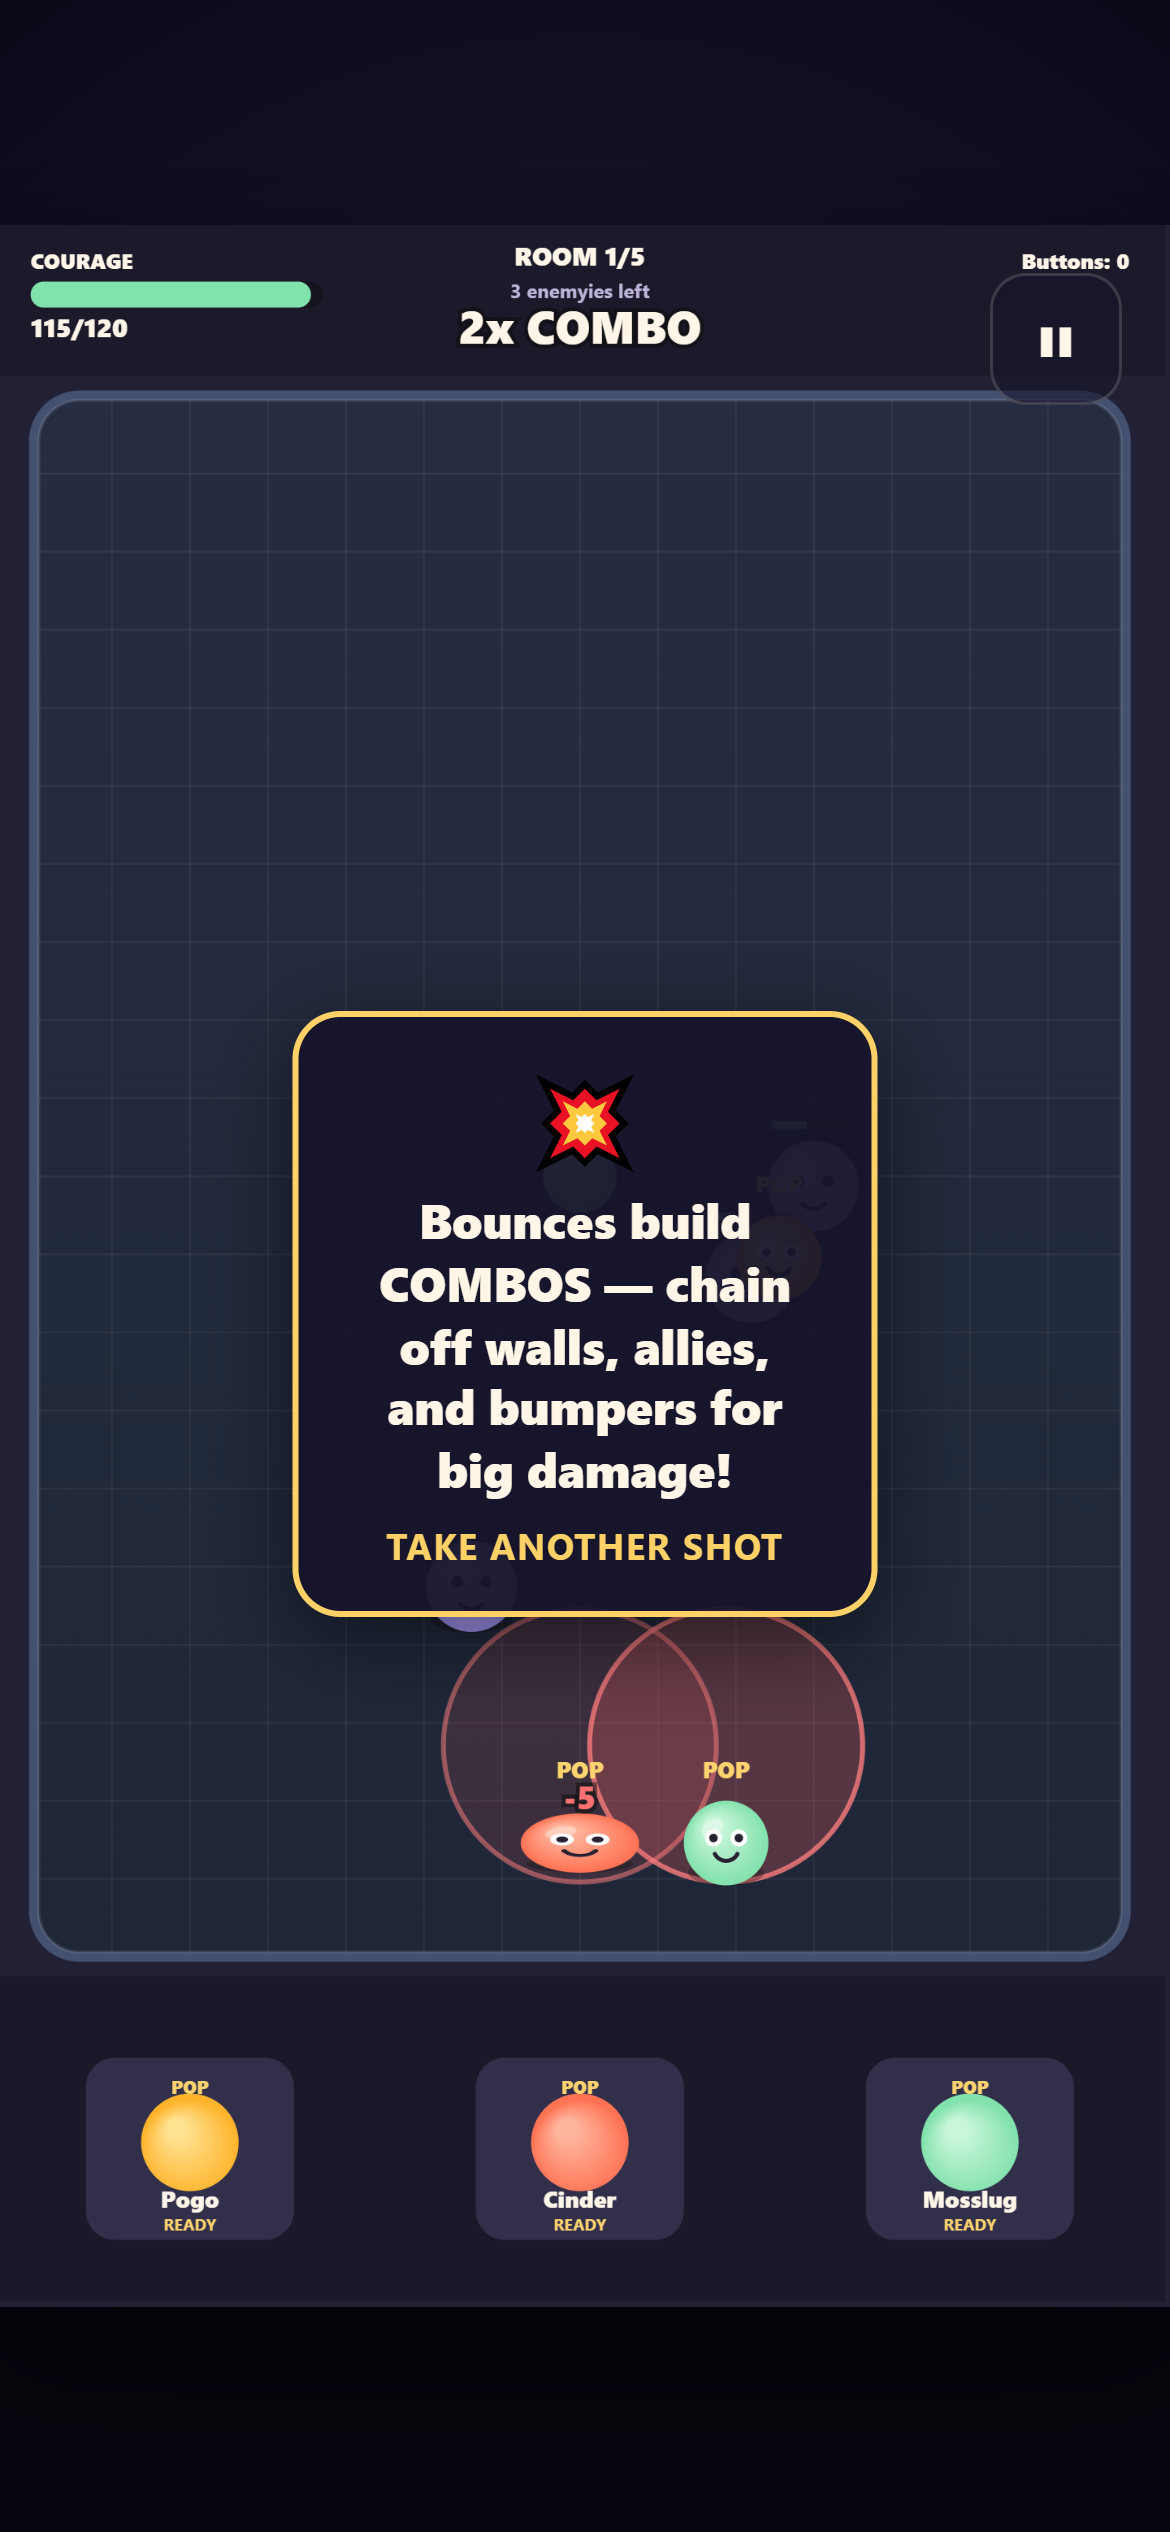
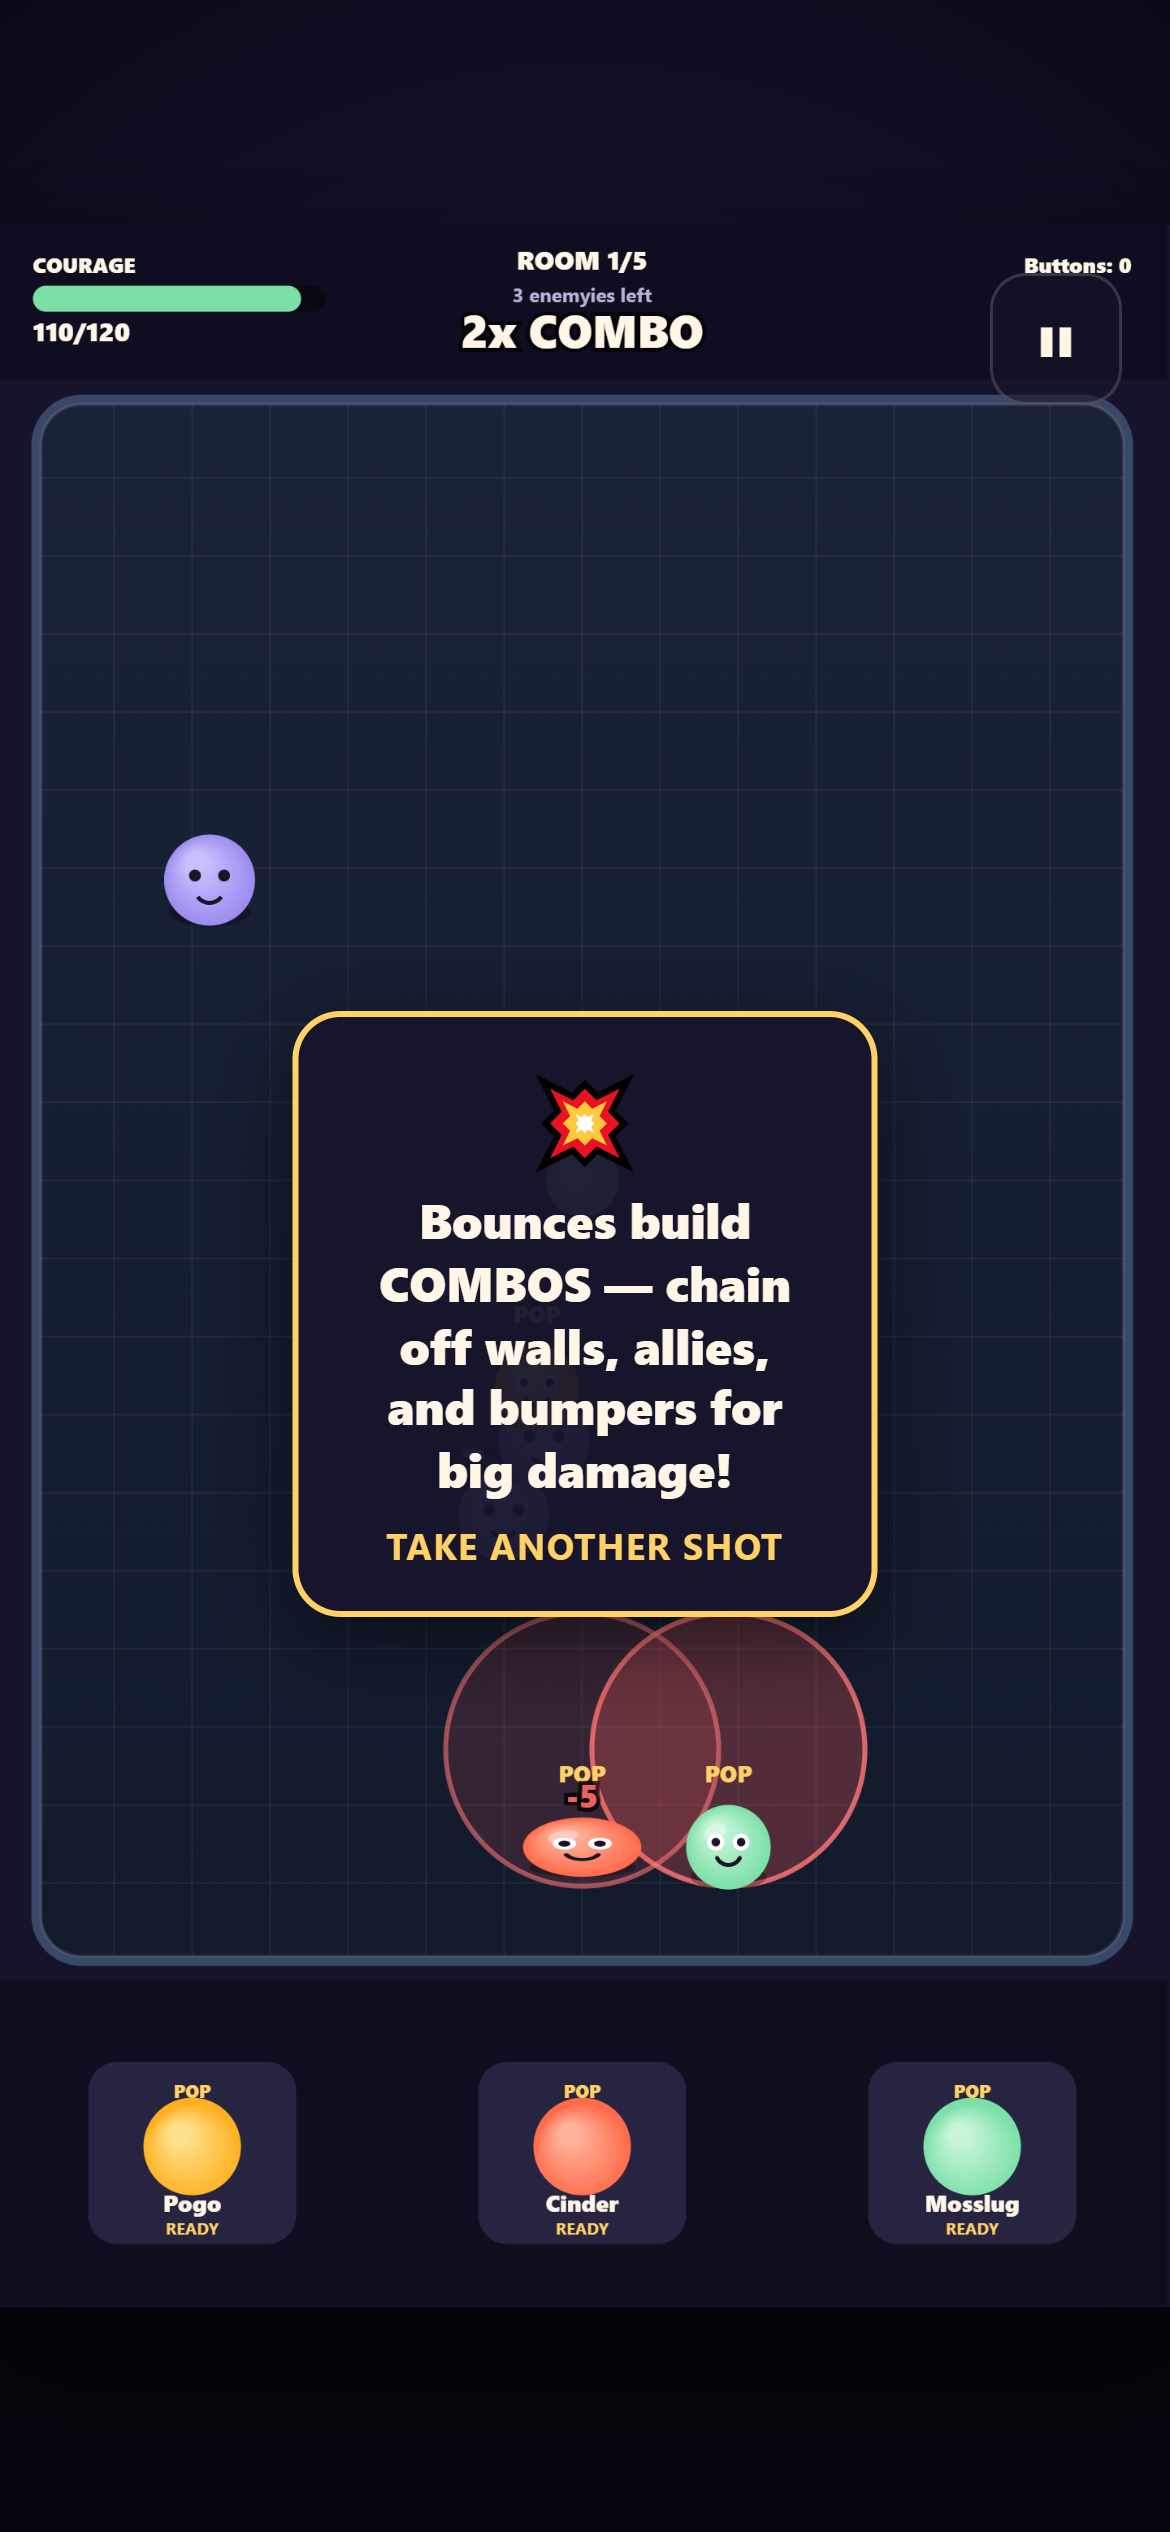
feat: World 4 (Clockwork Cloud) + World 5 (Velvet Void) + bosses The Snooze & The Hush Regent — completes all 5 worlds (§11)
World 4 — Clockwork Cloud: weather factory theme, purple palette, rooms 17-22.
Boss The Snooze: ticking<->ringing phase. Steals a turn (bonus damage) at
countdown; spawns clock-hand gears that must be struck to trigger ringing.
World 5 — Velvet Void: colorless theatre theme, grey palette, rooms 23+.
Boss The Hush Regent: hushing<->revealed phase. Drains Courage each turn;
becomes vulnerable periodically (blueprint: beaten by Buddy chains).
Both with destructible object mechanics (gear break, like bubble pop).

diff --git a/www/js/game.js b/www/js/game.js
@@ -372,12 +372,18 @@
     // ---- room generation (data-driven, seeded) ----
     buildRoom(idx) {
       // World selection across expeditions:
-      //  rooms 0-4  = Jellyyard (World 1)
-      //  rooms 5-10 = Ember Pantry (World 2)
-      //  rooms 11+  = Bubbleworks (World 3)
+      //  rooms 0-4   = Jellyyard (World 1)
+      //  rooms 5-10  = Ember Pantry (World 2)
+      //  rooms 11-16 = Bubbleworks (World 3)
+      //  rooms 17-22 = Clockwork Cloud (World 4)
+      //  rooms 23+   = Velvet Void (World 5)
       const inEmberPantry = idx >= 5 && idx < 11;
-      const inBubbleworks = idx >= 11;
-      const world = inBubbleworks ? PP_Content.WORLDS.bubbleworks
+      const inBubbleworks = idx >= 11 && idx < 17;
+      const inClockwork = idx >= 17 && idx < 23;
+      const inVelvetVoid = idx >= 23;
+      const world = inVelvetVoid ? PP_Content.WORLDS.velvet_void
+                  : inClockwork ? PP_Content.WORLDS.clockwork_cloud
+                  : inBubbleworks ? PP_Content.WORLDS.bubbleworks
                   : inEmberPantry ? PP_Content.WORLDS.ember_pantry
                   : PP_Content.WORLDS.jellyyard;
       this.currentWorldId = world.id;
@@ -393,8 +399,10 @@
       const isBossRoom = (!this.isDaily && !this.isWild && !this.isTower && !this.isPlayground && idx === this.totalRooms - 1);
       let uid = 0;
       if (isBossRoom && PP_Content.BOSSES) {
-        // Pick boss by world: Bubbleworks → Tanktopus, Ember Pantry → Chef Char, else Grumble Hoover.
-        const bossDef = (this.currentWorldId === 'bubbleworks' && PP_Content.BOSSES.tanktopus) ? PP_Content.BOSSES.tanktopus
+        // Pick boss by world.
+        const bossDef = (this.currentWorldId === 'velvet_void' && PP_Content.BOSSES.the_hush_regent) ? PP_Content.BOSSES.the_hush_regent
+          : (this.currentWorldId === 'clockwork_cloud' && PP_Content.BOSSES.the_snooze) ? PP_Content.BOSSES.the_snooze
+          : (this.currentWorldId === 'bubbleworks' && PP_Content.BOSSES.tanktopus) ? PP_Content.BOSSES.tanktopus
           : (this.currentWorldId === 'ember_pantry' && PP_Content.BOSSES.chef_char) ? PP_Content.BOSSES.chef_char
           : PP_Content.BOSSES.grumble_hoover;
         if (bossDef) {
@@ -527,6 +535,8 @@
       // Each boss has its own phase names; default to shielding/exposed.
       const startPhase = (def.id === 'chef_char') ? 'cooking'
                        : (def.id === 'tanktopus') ? 'guarded'
+                       : (def.id === 'the_snooze') ? 'ticking'
+                       : (def.id === 'the_hush_regent') ? 'hushing'
                        : 'shielding';
       const boss = {
         uid: 'boss', id: def.id, def, kind: 'enemy', isBoss: true,
@@ -958,6 +968,20 @@
           this.bumpCombo();
           return;
         }
+        // Clock gear (The Snooze, §11 W4): takes damage and breaks.
+        if (o.gear && !o.dead) {
+          o.gearHp -= (ap ? ap.def.power : 10);
+          PP_Audio.comboHit(ss.combo, 'object');
+          PP_Effects.burst(o.x, o.y, ev.nx, ev.ny, { count: 8, color: '#e0daf0', speed: 280, size: 4, life: 0.35 });
+          PP_Effects.shake(2);
+          if (o.gearHp <= 0) {
+            o.dead = true;
+            PP_Effects.ring(o.x, o.y, { color: '#b0a8d0', radius: o.r + 12, life: 0.4, width: 5 });
+            PP_Effects.floatText(o.x, o.y - 20, 'CLANG!', { color: '#b0a8d0', size: 16 });
+          }
+          this.bumpCombo();
+          return;
+        }
         if (o.bumper) {
           // bumper restitution handled in physics; add flair
           PP_Audio.comboHit(ss.combo, 'object');
@@ -975,7 +999,7 @@
       // Boss: takes bonus damage when EXPOSED, reduced when SHIELDING (blueprint §11).
       if (e.isBoss) {
         // Both bosses: take bonus damage when vulnerable (exposed / stunned).
-        const vulnerable = (e.bossPhase === 'exposed' || e.bossPhase === 'stunned' || e.bossPhase === 'popped');
+        const vulnerable = ['exposed', 'stunned', 'popped', 'ringing', 'revealed'].includes(e.bossPhase);
         if (vulnerable) {
           dmg *= e.exposedDamageMult;
           PP_Effects.floatText(e.x, e.y - e.r - 28, e.bossPhase === 'stunned' ? 'STUNNED!' : 'EXPOSED!', { color: '#ff7b9c', size: 18, big: true, life: 0.8 });
@@ -1374,6 +1398,93 @@
               e.phaseCounter = e.def.phaseDuration;
               e.armor = e.def.armor;
               PP_Effects.floatText(e.x, e.y - e.r - 20, 'ARMS UP', { color: '#5ec8e0', size: 16 });
+            }
+          }
+          continue;
+        }
+
+        // ---- The Snooze boss turn (blueprint §11 World 4) ----
+        if (e.isBoss && e.id === 'the_snooze') {
+          if (e.bossPhase === 'ticking') {
+            // Charge: advance countdown toward "steal a turn" (extra damage).
+            e._stealCount = (e._stealCount || 0) + 1;
+            // Spawn gear (clock hand) objects that must be struck to reset timing.
+            const n = e.def.gearsPerTurn || 2;
+            for (let g = 0; g < n; g++) {
+              const ang = this.rng.range(0, TAU);
+              const gx = clamp(e.x + Math.cos(ang) * 180, a.x + 40, a.x + a.w - 40);
+              const gy = clamp(e.y + Math.sin(ang) * 180, a.y + 40, a.y + a.h - 40);
+              room.objects.push({
+                uid: 'gear' + room.objects.length, kind: 'object', id: 'gear',
+                x: gx, y: gy, r: 22, bumper: true, restitution: 1.1,
+                gear: true, gearHp: e.def.gearHp || 6,
+                def: { color: '#b0a8d0', color2: '#e0daf0' }, sx: 1, sy: 1, _hit: 0,
+              });
+            }
+            // If countdown reached, "steal a turn" — bonus damage.
+            if (e._stealCount >= (e.def.stealThreshold || 3)) {
+              for (const p of this.squad) {
+                if (p.state === 'dead') continue;
+                this.hurtCourage(e.def.stealDamage || 15, 'The Snooze steals a turn', p);
+              }
+              PP_Effects.ring(e.x, e.y, { color: '#b0a8d0', radius: 500, life: 0.6, width: 8 });
+              PP_Effects.shake(8); PP_Effects.flash(0.4);
+              e._stealCount = 0;
+            }
+            // Check if gears struck → ringing (vulnerable)
+            const gearsLeft = room.objects.filter(o => o.id === 'gear' && !o.dead).length;
+            e.phaseCounter -= 1;
+            if (e.phaseCounter <= 0 || gearsLeft === 0) {
+              e.bossPhase = 'ringing';
+              e.phaseCounter = 2;
+              e.armor = 0;
+              e._stealCount = 0;
+              PP_Effects.floatText(e.x, e.y - e.r - 20, 'ALARM RINGING!', { color: '#ffd166', size: 22, big: true, life: 1.2 });
+              PP_Effects.ring(e.x, e.y, { color: '#ffd166', radius: e.r, life: 0.6, width: 8 });
+              PP_Effects.shake(6); PP_Effects.flash(0.3);
+            } else {
+              PP_Effects.floatText(e.x, e.y - e.r - 16, gearsLeft + ' hands left', { color: '#b0a8d0', size: 14 });
+            }
+          } else if (e.bossPhase === 'ringing') {
+            e.phaseCounter -= 1;
+            if (e.phaseCounter <= 0) {
+              e.bossPhase = 'ticking';
+              e.phaseCounter = e.def.phaseDuration;
+              e.armor = e.def.armor;
+              PP_Effects.floatText(e.x, e.y - e.r - 20, 'RESET', { color: '#b0a8d0', size: 16 });
+            }
+          }
+          continue;
+        }
+
+        // ---- The Hush Regent boss turn (blueprint §11 World 5) ----
+        if (e.isBoss && e.id === 'the_hush_regent') {
+          if (e.bossPhase === 'hushing') {
+            // The Hush spreads: drain Courage from all poplings.
+            for (const p of this.squad) {
+              if (p.state === 'dead') continue;
+              this.hurtCourage(e.def.drainDamage || 9, 'The Hush drains', p);
+            }
+            PP_Effects.ring(e.x, e.y, { color: '#8a8aa0', radius: 600, life: 0.6, width: 6 });
+            PP_Effects.flash(0.15);
+            e.phaseCounter -= 1;
+            if (e.phaseCounter <= 0) {
+              // Become briefly vulnerable — must be hit by a Buddy chain this turn.
+              e.bossPhase = 'revealed';
+              e.phaseCounter = 2;
+              e.armor = 0;
+              PP_Effects.floatText(e.x, e.y - e.r - 20, 'HUSH FALTERS!', { color: '#ffd166', size: 22, big: true, life: 1.2 });
+              PP_Effects.ring(e.x, e.y, { color: '#ffd166', radius: e.r, life: 0.6, width: 8 });
+            } else {
+              PP_Effects.floatText(e.x, e.y - e.r - 16, 'the Hush spreads...', { color: '#8a8aa0', size: 14 });
+            }
+          } else if (e.bossPhase === 'revealed') {
+            e.phaseCounter -= 1;
+            if (e.phaseCounter <= 0) {
+              e.bossPhase = 'hushing';
+              e.phaseCounter = e.def.phaseDuration;
+              e.armor = e.def.armor;
+              PP_Effects.floatText(e.x, e.y - e.r - 20, 'SILENCE RETURNS', { color: '#8a8aa0', size: 16 });
             }
           }
           continue;

diff --git a/www/js/content.js b/www/js/content.js
@@ -175,6 +175,40 @@
       exposedDamageMult: 2.3,
       lesson: 'Pop the pressure bubbles in sequence to expose the center.',
     },
+    // ---- Boss: The Snooze (blueprint §11 World 4 — Clockwork Cloud) ----
+    // A giant alarm clock that steals one upcoming turn. Striking clock hands
+    // changes when attacks resolve; perfect timing wakes sleeping bumpers.
+    // Phase 0 simplified: TICKING (armored, charges attack) <-> RINGING (vulnerable).
+    the_snooze: {
+      id: 'the_snooze', name: 'The Snooze',
+      color: '#b0a8d0', color2: '#e0daf0', accent: '#3a2f5a',
+      hp: 200, radius: 58, armor: 3,
+      phaseDuration: 3,
+      intentDamage: 13,
+      // Each ticking turn, advances a countdown; at zero, "steals a turn" (extra damage).
+      stealThreshold: 3, stealDamage: 15,
+      // Spawns a "clock hand" gear object each turn that must be struck to reset timing.
+      gearsPerTurn: 2, gearHp: 6,
+      exposedDamageMult: 2.3,
+      lesson: 'Strike the clock hands to reset the alarm before it rings.',
+    },
+    // ---- Boss: The Hush Regent (blueprint §11 World 5 — Velvet Void) ----
+    // A three-act encounter that disables one familiar affordance per phase:
+    // Act 1 disables sound cue, Act 2 disables trajectory extension,
+    // Act 3 disables color (icons/patterns remain). Beaten by Buddy chains.
+    // Phase 0 simplified: HUSHING (armored, drains color) <-> VULNERABLE.
+    the_hush_regent: {
+      id: 'the_hush_regent', name: 'The Hush Regent',
+      color: '#8a8aa0', color2: '#c0c0d0', accent: '#1a1a2a',
+      hp: 240, radius: 62, armor: 4,
+      phaseDuration: 3,
+      intentDamage: 14,
+      // Drains Courage each hushing turn (the "Hush" spreading).
+      drainDamage: 9,
+      // Exposed only by Buddy chains — requires touching 2+ allies this shot.
+      exposedDamageMult: 2.5,
+      lesson: 'Create unpredictable Buddy chains to break the Hush.',
+    },
   };
 
   // ---- Augments (§9) — Phase 0: 12 across Bounce / Buddy / Precision ----
@@ -230,6 +264,8 @@
     jellyyard: { id: 'jellyyard', name: 'Jellyyard', theme: 'garden of lost lunchboxes', color: '#7be0a8', floor: '#23334a' },
     ember_pantry: { id: 'ember_pantry', name: 'Ember Pantry', theme: 'an impossible kitchen inside a coat pocket', color: '#ff8c42', floor: '#3a2317' },
     bubbleworks: { id: 'bubbleworks', name: 'Bubbleworks', theme: 'a flooded workshop inside a glass marble', color: '#5ec8e0', floor: '#173040' },
+    clockwork_cloud: { id: 'clockwork_cloud', name: 'Clockwork Cloud', theme: 'a weather factory built from lost watches', color: '#b0a8d0', floor: '#241f3a' },
+    velvet_void: { id: 'velvet_void', name: 'Velvet Void', theme: 'a quiet theatre where color has almost vanished', color: '#8a8aa0', floor: '#15151f' },
   };
 
   // ---- Status effects (§8) ----